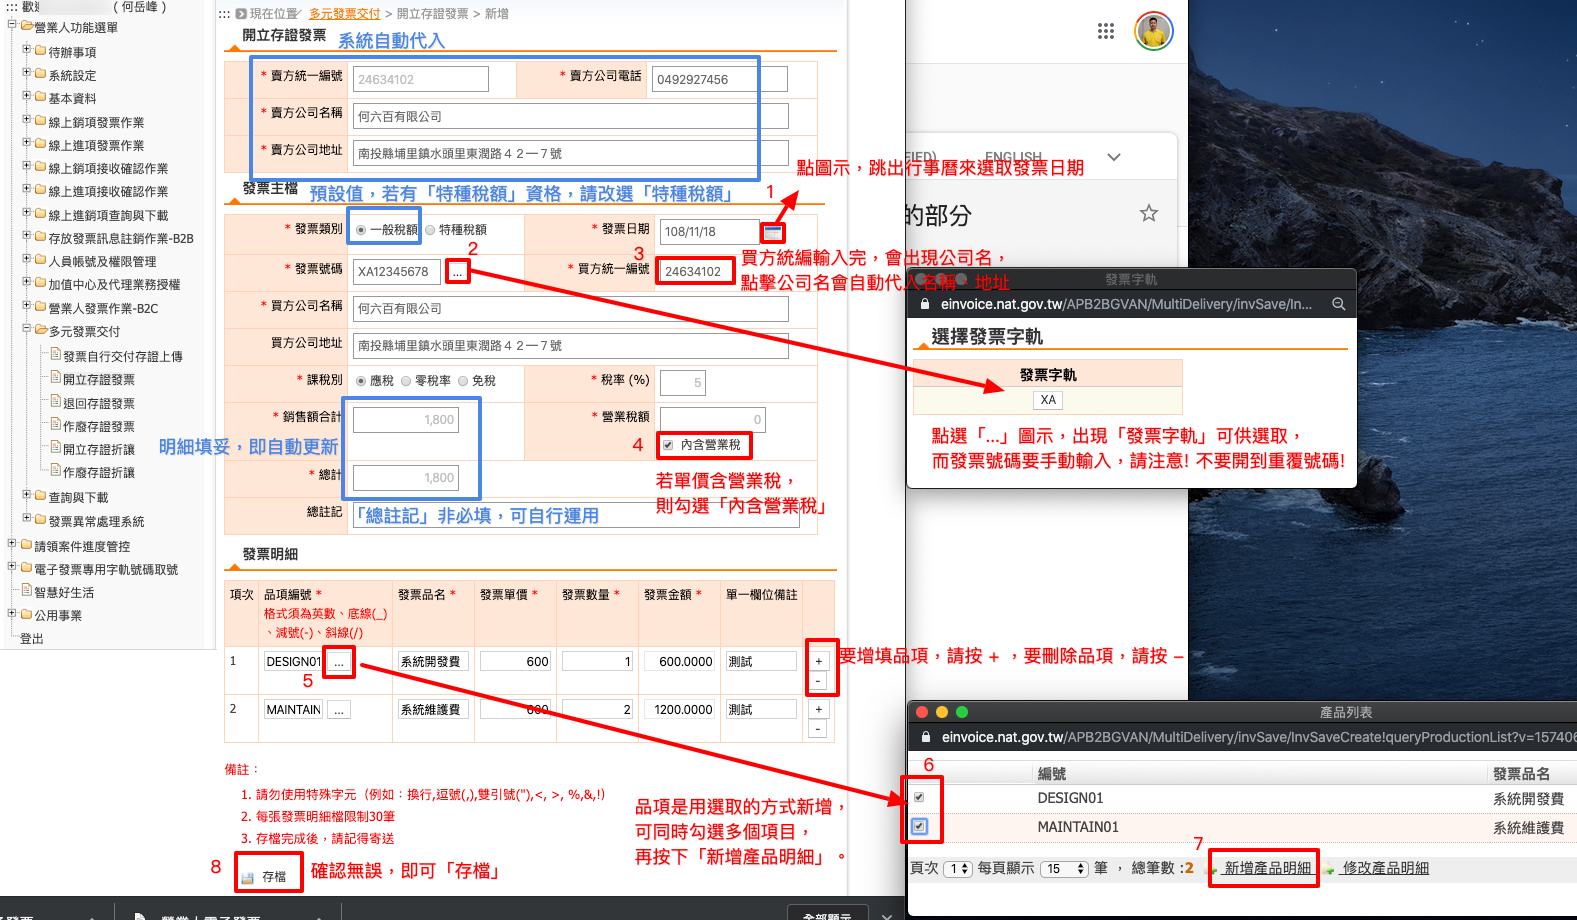
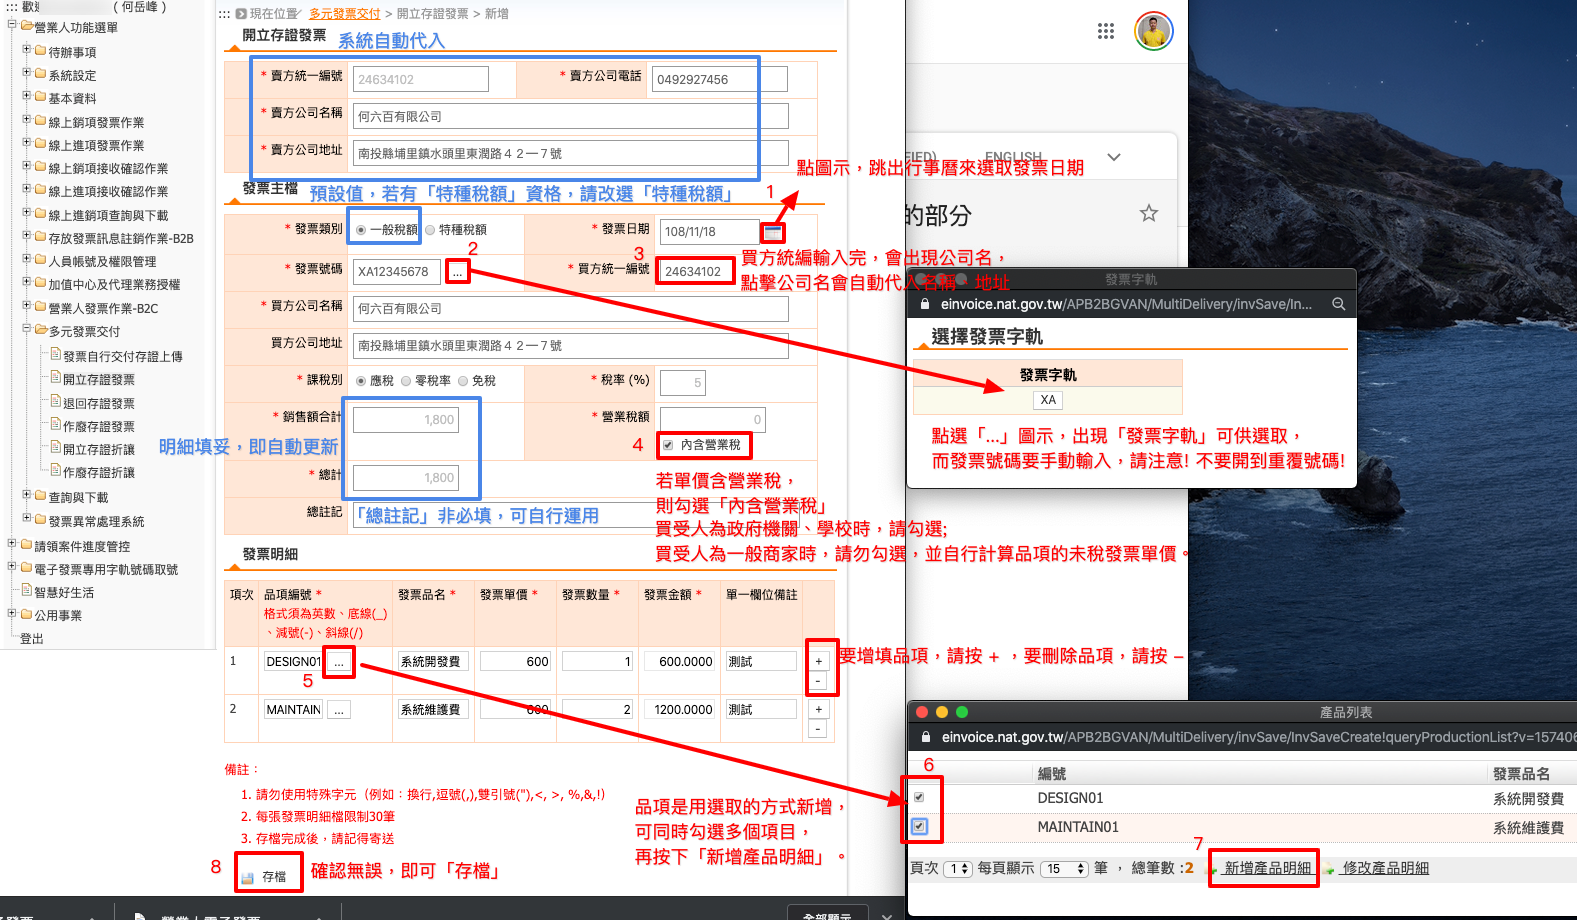
Finish the notes about downloading pdf from the e-invoice @CMEC2-324-hoamon-task-build-taiwan-einvoice-service-for-cm]

Changed region(s): [[0.4039, 0.5478, 0.7457, 0.6087]]

diff --git a/docs/merchant_operations/營業人功能選單/查詢與下載/發票查詢_列印_下載.rst b/docs/merchant_operations/營業人功能選單/查詢與下載/發票查詢_列印_下載.rst
@@ -1,0 +1,71 @@
+.. _發票查詢/列印/下載:
+
+發票查詢/列印/下載
+...............................................................................
+
+路徑位置: *營業人功能選單 > 查詢與下載 > 發票查詢/列印/下載* 。
+
+已發立完成的電子發票，包含「多元發票」或「線上銷售發票」都可以在這裡查詢到。\
+若是別的賣家開給你的進項發票，在這裡也可以查詢到。
+
+.. figure:: ./發票查詢_列印_下載01.png
+    :width: 500px
+    :align: center
+
+    點選「線上查詢」
+
+查詢分兩種:
+
+* 線上查詢
+* 非即時查詢
+
+前者的查詢結果會立即顯示在網頁上，而第 2 種方法，則是先下條件後，\
+待一段時間再回來看查詢結果，通常是在巨量紀錄上使用的。
+
+.. figure:: ./發票查詢_列印_下載02.png
+    :width: 500px
+    :align: center
+
+    發票日期為必要查詢條件
+
+選擇「發票日期」區間後，按下「查詢」按鈕。
+
+.. figure:: ./發票查詢_列印_下載03.png
+    :width: 500px
+    :align: center
+
+    發票列表
+
+在電子發票列表上，勾選目標紀錄，可對該目標進行「下載PDF檔」、「下載PDF檔(A5)」、「下載電子發票證明聯(5.7)」或是「下載Excel檔」。不同格式範例如下:
+
+.. figure:: ./發票查詢_列印_下載04.png
+    :width: 300px
+    :align: center
+
+    PDF 檔
+
+.. figure:: ./發票查詢_列印_下載05.png
+    :width: 500px
+    :align: center
+
+    PDF 檔(A5)
+
+.. figure:: ./發票查詢_列印_下載06.png
+    :width: 500px
+    :align: center
+
+    電子發票證明聯(5.7)
+
+.. figure:: ./發票查詢_列印_下載07.png
+    :width: 500px
+    :align: center
+
+    Excel
+
+可自行寄送「PDF 檔」、「PDF(A5) 檔」或「電子發票證明聯(5.7)」格式的電子檔給買受人。
+
+.. note::
+
+    **請注意** ，開立「自行交付存證」的電子發票後，一定要另外寄電子檔通知買受人，
+    不然買受人是不會知曉有這一筆交易。就像開立三聯式發票後，
+    把扣抵聯、收執聯放進自己的抽屜中，這樣只有天知、地知、你知及稅務單位知。

diff --git a/docs/merchant_operations/營業人功能選單/多元發票交付/開立存證發票.rst b/docs/merchant_operations/營業人功能選單/多元發票交付/開立存證發票.rst
@@ -5,7 +5,7 @@
 
 路徑位置: *營業人功能選單 > 多元發票交付 > 開立存證發票* 。
 
-只要是有統一編號的買受人，都可以使用本節方式開立電子發票給它。
+只要是有統一編號的買受人，都可以使用本節方式開立電子發票給它的客戶。
 
 .. figure:: ./開立存證發票01.png
     :width: 500px
@@ -16,7 +16,7 @@
 1. 選取發票日期。請注意! 發票日期與發票號碼要順時順號開立。
 #. 填寫發票號碼。請注意! 這裡的發票號碼並不會有驗證機制，所以請自行將已開立過的發票號碼另外紀錄下來，避免重覆開立。
 #. 設定買方統編。務必要先完成「 :ref:`交易對象資料維護` 」的設定，才能在這裡選取它的公司名稱。
-#. 勾選「內含營業稅」後，發票明細的金額直接累加起來，就是「總計」的金額。
+#. 決定是否勾選「內含營業稅」。有勾選，則發票明細的金額直接累加起來，就是「總計」的金額，其營業稅額為秀 0 元，這是買受人為政府機關、學校時所用的; 若買受人為一般商家，請不要勾選，並自行計算出品項發票單價的未稅價，當發票明細中所填的都是未稅價時，發票主檔表格中的營業稅額會自動代出。
 #. 設定品項。須在「 :ref:`產品資料維護` 」中有設定的，才可以在這裡選取。若要增刪品項，可使用 + 或 - 的按鈕操作。
 #. 勾選產品。在跳出的新視窗中，可多值勾選「產品」。
 #. 新增產品明細。按下「新增產品明細」的連結，會將所勾選的「產品」帶回原來的主檔頁面。

diff --git a/docs/merchant_operations/營業人功能選單/多元發票交付/發票自行交付存證上傳.rst b/docs/merchant_operations/營業人功能選單/多元發票交付/發票自行交付存證上傳.rst
@@ -63,4 +63,8 @@
 
 待「存證中心」處理完此張電子發票後，狀態會改成「開立已確認」。
 
-到這裡，我們就完成「開立一張電子發票」了。
+到這裡，我們就完成「開立一張電子發票」了。\
+因為「自行交付存證的電子發票」並無通知買受人的機制，\
+所以必須由賣家自行下載該電子發票的 PDF ，傳給買受人，讓買受人可以做帳。
+
+要下載電子發票的 PDF ，請至「 :ref:`發票查詢/列印/下載` 」處理。

diff --git a/docs/merchant_operations/營業人功能選單/查詢與下載.rst b/docs/merchant_operations/營業人功能選單/查詢與下載.rst
@@ -1,0 +1,6 @@
+查詢與下載
+^^^^^^^^^^^^^^^^^^^^^^^^^^^^^^^^^^^^^^^^^^^^^^^^^^^^^^^^^^^^^^^^^^^^^^^^^^^^^^^
+
+.. toctree::
+
+    查詢與下載/發票查詢_列印_下載.rst
